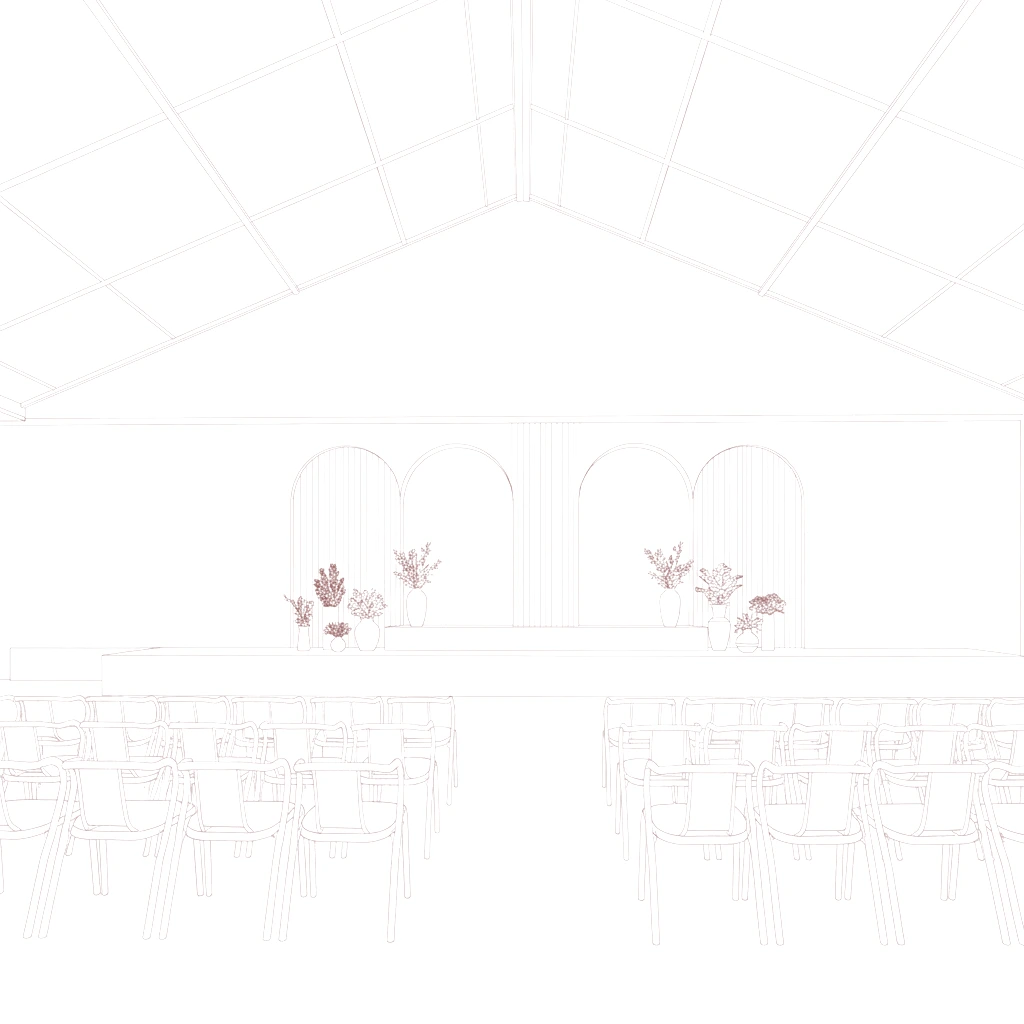
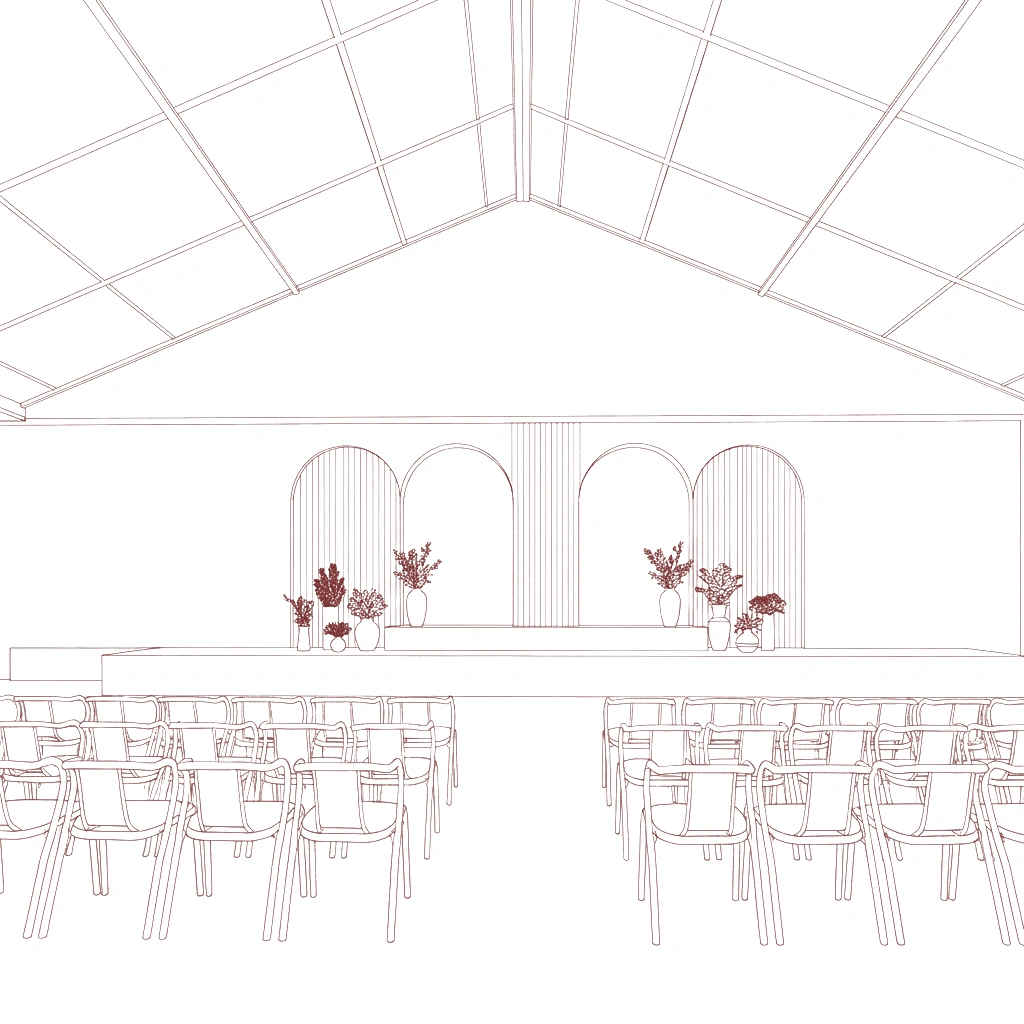
style: darken Aurelius stage close-up illustration lines non-linearly to match line weight of others, with cache-buster bump to v=22

diff --git a/index.html b/index.html
@@ -880,7 +880,7 @@ ul { list-style: none; }
     <!-- AURELIUS - Grand Hall Interior -->
     <div class="sov-card reveal">
       <div class="sov-illus">
-        <img src="veloura-imgs/sov_aurelius_crop.webp?v=21" alt="Aurelius Celebration Hall illustration" style="width:100%;height:100%;object-fit:contain;">
+        <img src="veloura-imgs/sov_aurelius_crop.webp?v=22" alt="Aurelius Celebration Hall illustration" style="width:100%;height:100%;object-fit:contain;">
       </div>
       <p class="sov-name">Aurelius</p>
       <p class="sov-sub">Celebration Hall</p>
@@ -889,7 +889,7 @@ ul { list-style: none; }
     <!-- THE PROMENADE - Garden Gazebo -->
     <div class="sov-card reveal d1">
       <div class="sov-illus">
-        <img src="veloura-imgs/sov_promenade_crop.webp?v=21" alt="The Promenade Outdoor Lawn illustration" style="width:100%;height:100%;object-fit:contain;">
+        <img src="veloura-imgs/sov_promenade_crop.webp?v=22" alt="The Promenade Outdoor Lawn illustration" style="width:100%;height:100%;object-fit:contain;">
       </div>
       <p class="sov-name">The Promenade</p>
       <p class="sov-sub">Outdoor Lawn</p>
@@ -898,7 +898,7 @@ ul { list-style: none; }
     <!-- THE LUMIERE - The Glass Pavilion -->
     <div class="sov-card reveal d2">
       <div class="sov-illus">
-        <img src="veloura-imgs/sov_lumiere.webp?v=21" alt="The Lumiere The Glass Pavilion illustration" style="width:100%;height:100%;object-fit:contain;">
+        <img src="veloura-imgs/sov_lumiere.webp?v=22" alt="The Lumiere The Glass Pavilion illustration" style="width:100%;height:100%;object-fit:contain;">
       </div>
       <p class="sov-name">The Lumiere</p>
       <p class="sov-sub">The Glass Pavilion</p>
@@ -907,7 +907,7 @@ ul { list-style: none; }
     <!-- CELESTIA - Dining Hall -->
     <div class="sov-card reveal d3">
       <div class="sov-illus">
-        <img src="veloura-imgs/sov_celestia_crop.webp?v=21" alt="Celestia Dining Hall illustration" style="width:100%;height:100%;object-fit:contain;">
+        <img src="veloura-imgs/sov_celestia_crop.webp?v=22" alt="Celestia Dining Hall illustration" style="width:100%;height:100%;object-fit:contain;">
       </div>
       <p class="sov-name">Celestia</p>
       <p class="sov-sub">Dining Hall</p>
